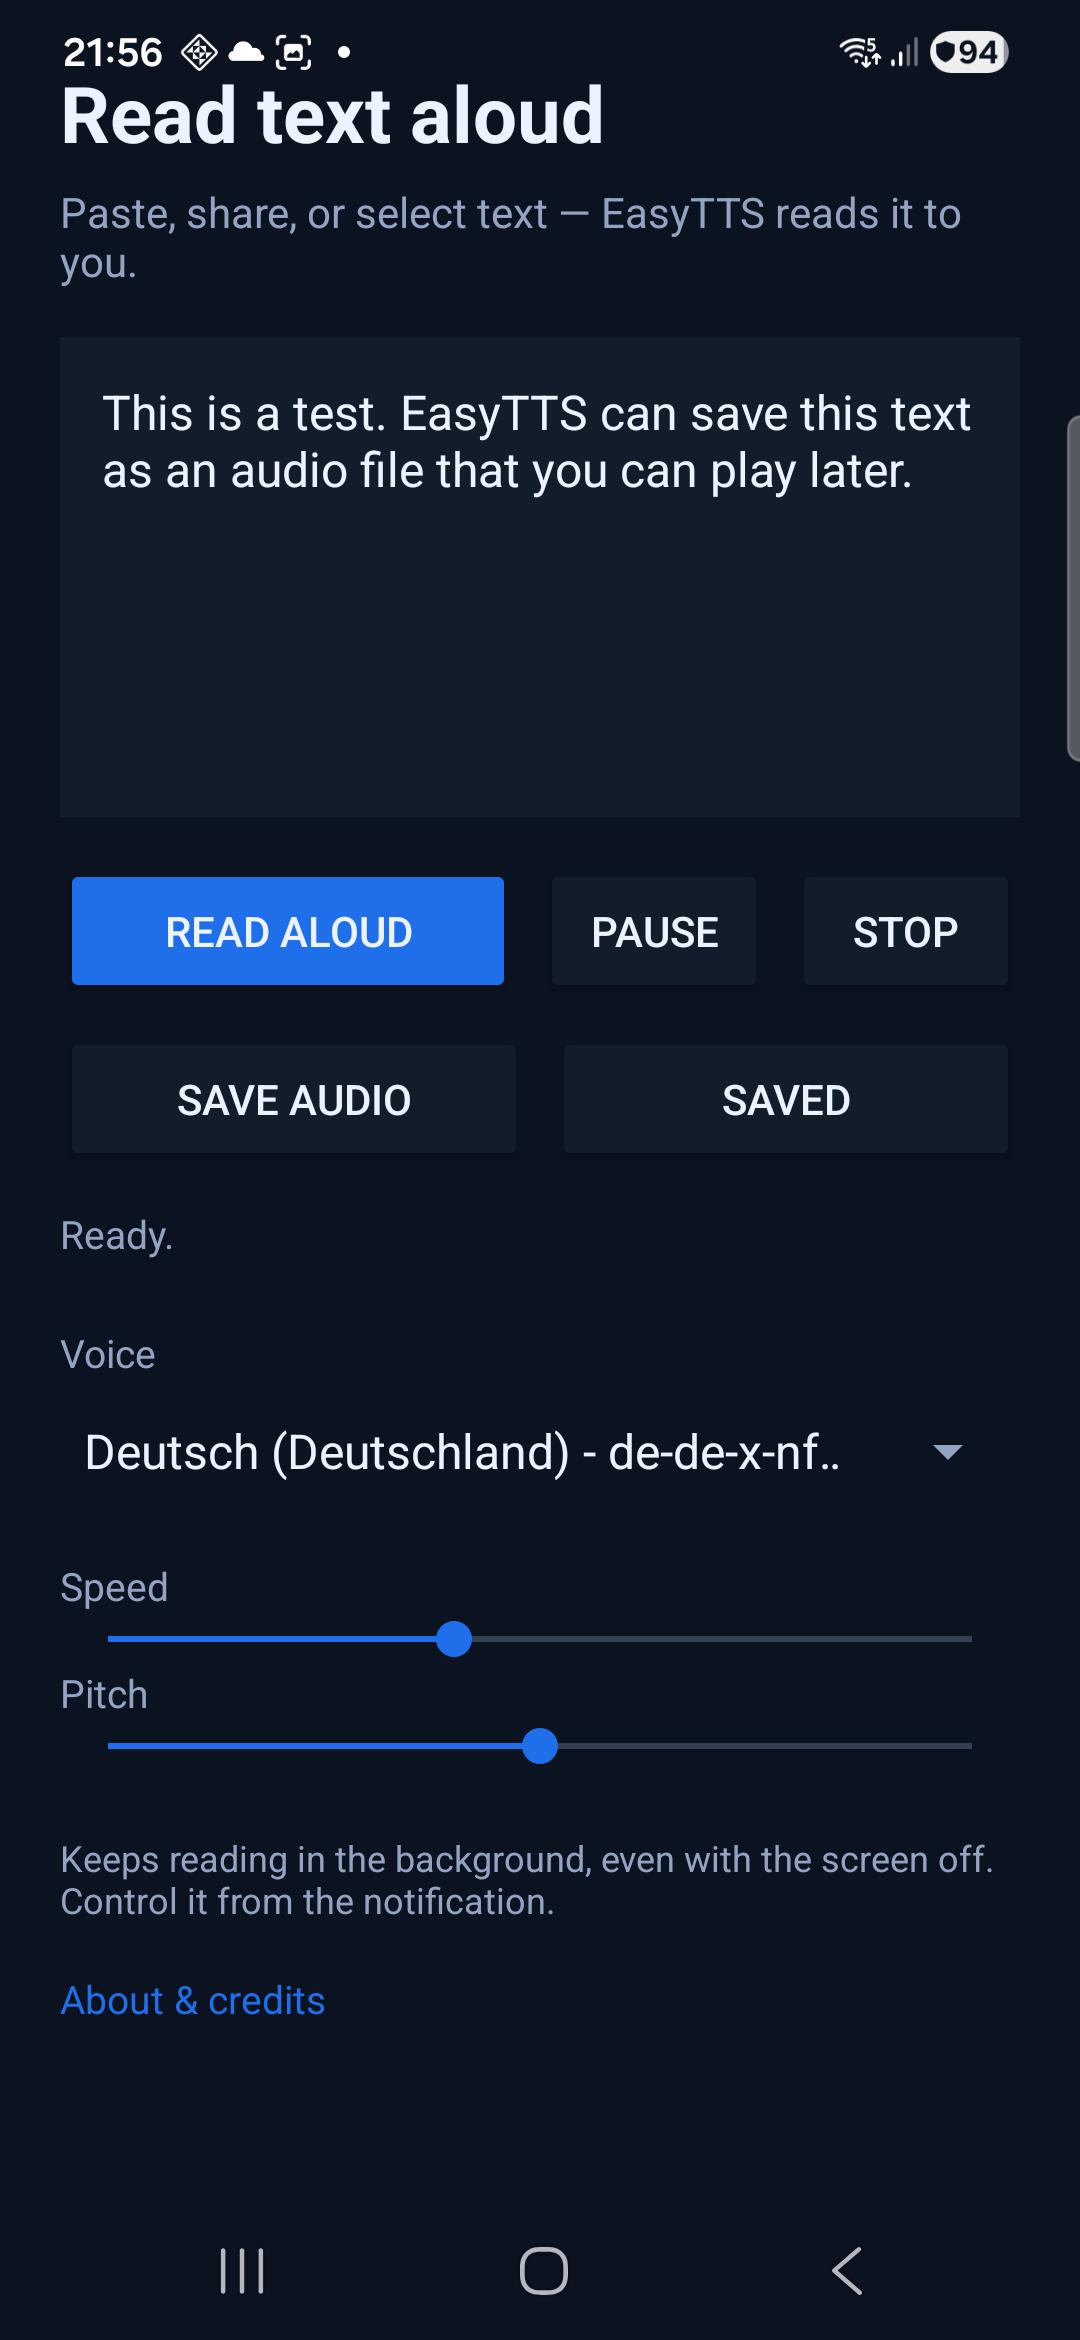
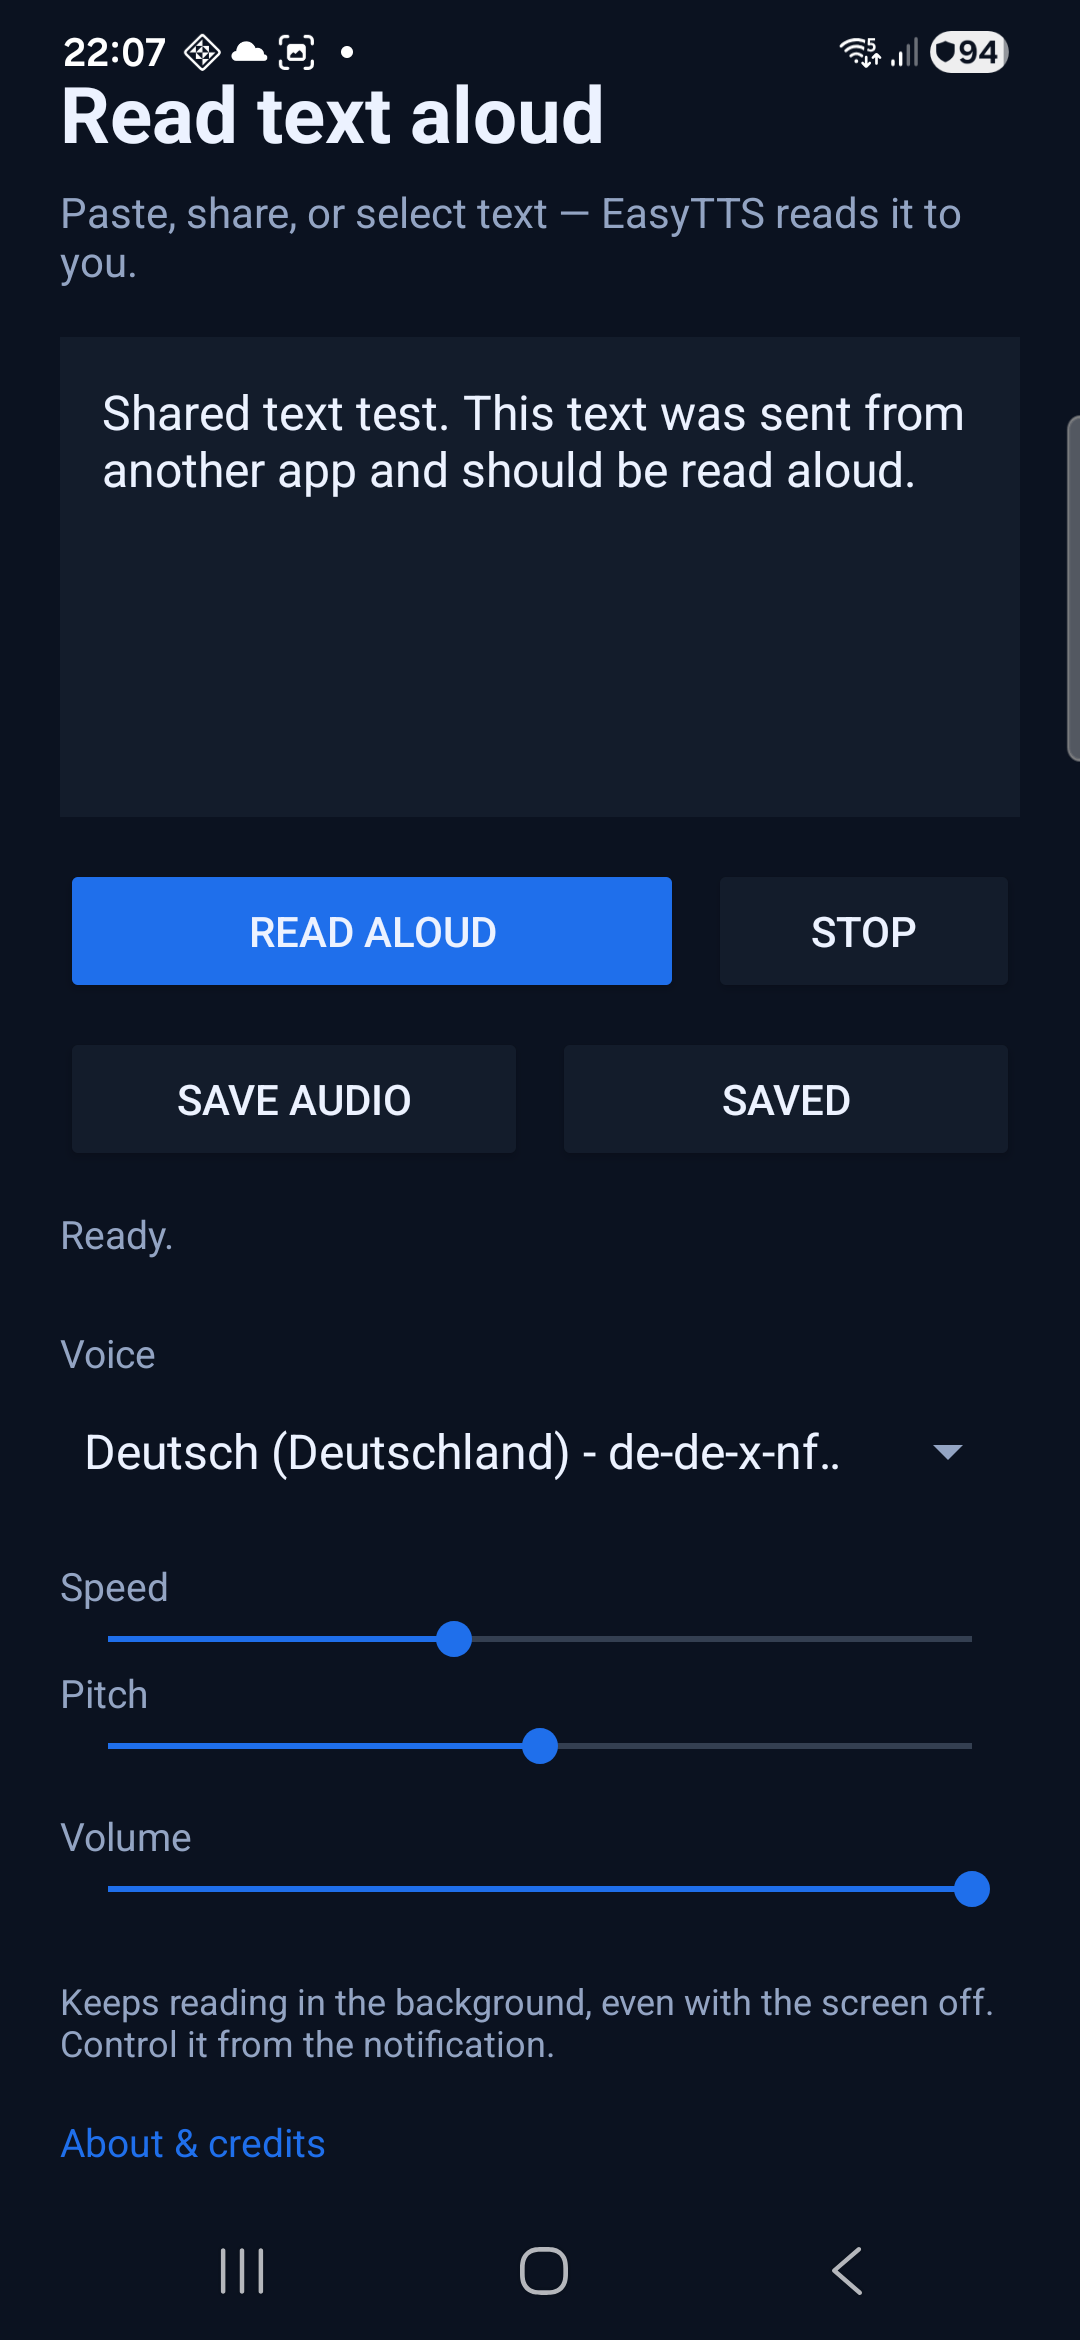
feat: read button toggles pause/resume, add volume slider (0.5.0)
- Read aloud becomes Pause/Resume while a session is active
- service decides between start and toggle (no stale UI state)
- new volume slider, stored and applied per utterance
- normal launches start with an empty text field; shared text still fills it
- draft survives rotation via saved instance state
- version 0.5.0 (code 5)

diff --git a/android/app/src/main/java/de/voicetool/reader/MainActivity.java b/android/app/src/main/java/de/voicetool/reader/MainActivity.java
@@ -37,9 +37,10 @@ public class MainActivity extends Activity {
     private EditText input;
     private SeekBar rateBar;
     private SeekBar pitchBar;
+    private SeekBar volumeBar;
     private Spinner voiceSpinner;
     private TextView status;
-    private Button pauseButton;
+    private Button readButton;
     private Button saveButton;
     private String pendingSaveText;
 
@@ -64,13 +65,18 @@ public class MainActivity extends Activity {
         input = findViewById(R.id.input);
         rateBar = findViewById(R.id.rate);
         pitchBar = findViewById(R.id.pitch);
+        volumeBar = findViewById(R.id.volume);
         voiceSpinner = findViewById(R.id.voice);
         status = findViewById(R.id.status);
-        pauseButton = findViewById(R.id.pause);
+        readButton = findViewById(R.id.speak);
 
-        input.setText(prefs.getString("lastText", ""));
+        // Keep text across rotation, but start empty on a normal launch.
+        if (savedInstanceState != null) {
+            input.setText(savedInstanceState.getString("draft", ""));
+        }
         rateBar.setProgress(prefs.getInt("rate", 100));
         pitchBar.setProgress(prefs.getInt("pitch", 100));
+        volumeBar.setProgress(prefs.getInt("volume", 100));
         String savedVoice = prefs.getString("voice", "");
 
         rateBar.setOnSeekBarChangeListener(new SimpleSeekListener() {
@@ -87,6 +93,15 @@ public class MainActivity extends Activity {
             public void onProgressChanged(SeekBar bar, int value, boolean fromUser) {
                 if (fromUser) {
                     prefs.edit().putInt("pitch", value).apply();
+                    sendConfig();
+                }
+            }
+        });
+        volumeBar.setOnSeekBarChangeListener(new SimpleSeekListener() {
+            @Override
+            public void onProgressChanged(SeekBar bar, int value, boolean fromUser) {
+                if (fromUser) {
+                    prefs.edit().putInt("volume", value).apply();
                     sendConfig();
                 }
             }
@@ -117,11 +132,9 @@ public class MainActivity extends Activity {
             }
         });
 
-        Button speakButton = findViewById(R.id.speak);
         Button stopButton = findViewById(R.id.stop);
         saveButton = findViewById(R.id.save);
-        speakButton.setOnClickListener(v -> speakInput());
-        pauseButton.setOnClickListener(v -> sendAction(ReaderService.ACTION_TOGGLE));
+        readButton.setOnClickListener(v -> onReadClicked());
         stopButton.setOnClickListener(v -> {
             sendAction(ReaderService.ACTION_STOP);
             setStatus(getString(R.string.status_stopped));
@@ -137,7 +150,9 @@ public class MainActivity extends Activity {
             prefs.edit().putString("voice", savedVoice).apply();
         }
         askNotificationPermission();
-        handleIntent(getIntent());
+        if (savedInstanceState == null) {
+            handleIntent(getIntent());
+        }
     }
 
     // -- Control the service ---------------------------------------------
@@ -151,6 +166,27 @@ public class MainActivity extends Activity {
                 .setAction(ReaderService.ACTION_CONFIG)
                 .putExtra(ReaderService.EXTRA_RATE, rateBar.getProgress() / 100f)
                 .putExtra(ReaderService.EXTRA_PITCH, pitchBar.getProgress() / 100f)
+                .putExtra(ReaderService.EXTRA_VOLUME, volumeBar.getProgress() / 100f)
+                .putExtra(ReaderService.EXTRA_VOICE, prefs.getString("voice", ""));
+        startService(intent);
+    }
+
+    private void onReadClicked() {
+        String text = input.getText().toString().trim();
+        boolean active = ReaderService.STATE_SPEAKING.equals(currentState)
+                || ReaderService.STATE_PAUSED.equals(currentState);
+        if (text.isEmpty() && !active) {
+            Toast.makeText(this, R.string.hint_empty, Toast.LENGTH_SHORT).show();
+            return;
+        }
+        if (!text.isEmpty()) {
+            }
+        Intent intent = new Intent(this, ReaderService.class)
+                .setAction(ReaderService.ACTION_READ)
+                .putExtra(ReaderService.EXTRA_TEXT, text)
+                .putExtra(ReaderService.EXTRA_RATE, rateBar.getProgress() / 100f)
+                .putExtra(ReaderService.EXTRA_PITCH, pitchBar.getProgress() / 100f)
+                .putExtra(ReaderService.EXTRA_VOLUME, volumeBar.getProgress() / 100f)
                 .putExtra(ReaderService.EXTRA_VOICE, prefs.getString("voice", ""));
         startService(intent);
     }
@@ -161,7 +197,6 @@ public class MainActivity extends Activity {
             Toast.makeText(this, R.string.hint_empty, Toast.LENGTH_SHORT).show();
             return;
         }
-        prefs.edit().putString("lastText", text).apply();
         speak(text);
     }
 
@@ -171,6 +206,7 @@ public class MainActivity extends Activity {
                 .putExtra(ReaderService.EXTRA_TEXT, text)
                 .putExtra(ReaderService.EXTRA_RATE, rateBar.getProgress() / 100f)
                 .putExtra(ReaderService.EXTRA_PITCH, pitchBar.getProgress() / 100f)
+                .putExtra(ReaderService.EXTRA_VOLUME, volumeBar.getProgress() / 100f)
                 .putExtra(ReaderService.EXTRA_VOICE, prefs.getString("voice", ""));
         startService(intent);
     }
@@ -325,12 +361,12 @@ public class MainActivity extends Activity {
 
     private void showState() {
         if (ReaderService.STATE_ERROR.equals(currentState)) {
-            pauseButton.setText(R.string.pause);
+            readButton.setText(R.string.speak);
             setStatus(getString(R.string.status_error));
             return;
         }
         if (ReaderService.STATE_SPEAKING.equals(currentState)) {
-            pauseButton.setText(R.string.pause);
+            readButton.setText(R.string.pause);
             if (currentTotal > 0) {
                 setStatus(getString(R.string.status_progress_speaking,
                         Math.min(currentIndex + 1, currentTotal), currentTotal));
@@ -340,7 +376,7 @@ public class MainActivity extends Activity {
             return;
         }
         if (ReaderService.STATE_PAUSED.equals(currentState)) {
-            pauseButton.setText(R.string.resume);
+            readButton.setText(R.string.resume);
             if (currentTotal > 0) {
                 setStatus(getString(R.string.status_progress_paused,
                         Math.min(currentIndex + 1, currentTotal), currentTotal));
@@ -349,7 +385,7 @@ public class MainActivity extends Activity {
             }
             return;
         }
-        pauseButton.setText(R.string.pause);
+        readButton.setText(R.string.speak);
         if (ReaderService.STATE_DONE.equals(currentState)) {
             setStatus(getString(R.string.status_done));
         } else if (ReaderService.STATE_IDLE.equals(currentState)) {
@@ -369,8 +405,13 @@ public class MainActivity extends Activity {
         if (intent == null) {
             return;
         }
-        CharSequence shared = null;
         String action = intent.getAction();
+        if (Intent.ACTION_MAIN.equals(action)) {
+            // Opened from the launcher: start with an empty field.
+            input.setText("");
+            return;
+        }
+        CharSequence shared = null;
         if (Intent.ACTION_SEND.equals(action)) {
             shared = intent.getCharSequenceExtra(Intent.EXTRA_TEXT);
         } else if (Intent.ACTION_PROCESS_TEXT.equals(action)) {
@@ -381,6 +422,12 @@ public class MainActivity extends Activity {
             input.setText(text);
             speak(text);
         }
+    }
+
+    @Override
+    protected void onSaveInstanceState(Bundle outState) {
+        super.onSaveInstanceState(outState);
+        outState.putString("draft", input.getText().toString());
     }
 
     // -- Lifecycle --------------------------------------------------------
@@ -398,12 +445,6 @@ public class MainActivity extends Activity {
             receiverRegistered = false;
         }
         super.onStop();
-    }
-
-    @Override
-    protected void onPause() {
-        super.onPause();
-        prefs.edit().putString("lastText", input.getText().toString()).apply();
     }
 
     @Override

diff --git a/android/app/src/main/java/de/voicetool/reader/ReaderService.java b/android/app/src/main/java/de/voicetool/reader/ReaderService.java
@@ -33,6 +33,7 @@ import java.util.Locale;
 public class ReaderService extends Service implements TextToSpeech.OnInitListener {
 
     public static final String ACTION_SPEAK = "de.voicetool.reader.SPEAK";
+    public static final String ACTION_READ = "de.voicetool.reader.READ";
     public static final String ACTION_TOGGLE = "de.voicetool.reader.TOGGLE";
     public static final String ACTION_STOP = "de.voicetool.reader.STOP";
     public static final String ACTION_CONFIG = "de.voicetool.reader.CONFIG";
@@ -41,6 +42,7 @@ public class ReaderService extends Service implements TextToSpeech.OnInitListene
     public static final String EXTRA_TEXT = "text";
     public static final String EXTRA_RATE = "rate";
     public static final String EXTRA_PITCH = "pitch";
+    public static final String EXTRA_VOLUME = "volume";
     public static final String EXTRA_VOICE = "voice";
     public static final String EXTRA_STATE = "state";
     public static final String EXTRA_INDEX = "index";
@@ -72,6 +74,7 @@ public class ReaderService extends Service implements TextToSpeech.OnInitListene
 
     private float rate = 1f;
     private float pitch = 1f;
+    private float volume = 1f;
     private String voiceName = "";
 
     private AudioManager audioManager;
@@ -95,6 +98,17 @@ public class ReaderService extends Service implements TextToSpeech.OnInitListene
                 String text = intent.getStringExtra(EXTRA_TEXT);
                 if (!TextUtils.isEmpty(text)) {
                     speak(text);
+                }
+            } else if (ACTION_READ.equals(action)) {
+                // The service decides: pause/resume when active, otherwise start.
+                applyConfig(intent);
+                if (paused || (tts != null && tts.isSpeaking())) {
+                    toggle();
+                } else {
+                    String text = intent.getStringExtra(EXTRA_TEXT);
+                    if (!TextUtils.isEmpty(text)) {
+                        speak(text);
+                    }
                 }
             } else if (ACTION_TOGGLE.equals(action)) {
                 toggle();
@@ -189,6 +203,9 @@ public class ReaderService extends Service implements TextToSpeech.OnInitListene
         if (intent.hasExtra(EXTRA_PITCH)) {
             pitch = intent.getFloatExtra(EXTRA_PITCH, 1f);
         }
+        if (intent.hasExtra(EXTRA_VOLUME)) {
+            volume = Math.max(0f, Math.min(1f, intent.getFloatExtra(EXTRA_VOLUME, 1f)));
+        }
         if (intent.hasExtra(EXTRA_VOICE)) {
             String name = intent.getStringExtra(EXTRA_VOICE);
             voiceName = name == null ? "" : name;
@@ -271,7 +288,7 @@ public class ReaderService extends Service implements TextToSpeech.OnInitListene
         }
         currentUtterance = "vt-" + index + "-" + System.currentTimeMillis();
         Bundle params = new Bundle();
-        params.putFloat(TextToSpeech.Engine.KEY_PARAM_VOLUME, 1f);
+        params.putFloat(TextToSpeech.Engine.KEY_PARAM_VOLUME, volume);
         tts.speak(chunks.get(index), TextToSpeech.QUEUE_FLUSH, params, currentUtterance);
         state = STATE_SPEAKING;
         broadcastState();

diff --git a/README.md b/README.md
@@ -18,7 +18,9 @@ read aloud — offline, without an account, without ads.
   stops on incoming calls.
 - **Voice selection**: automatically picks the best voice for your device
   language; you can change it at any time.
-- **Speed and pitch** sliders, remembered across launches.
+- **Speed, pitch, and volume** sliders, remembered across launches.
+- **One-button playback**: *Read aloud* turns into *Pause*/*Resume* while
+  reading; the notification offers the same controls.
 - **Save audio**: export the current text to `Music/EasyTTS` as M4A (AAC),
   with a WAV fallback if encoding is unavailable.
 - **Saved screen**: play, share, or delete exported files.
@@ -48,7 +50,7 @@ ship updates with the same signature.
 Copy the APK to your phone and open it, or use ADB:
 
 ```powershell
-adb install -r dist\EasyTTS-0.4.0.apk
+adb install -r dist\EasyTTS-0.5.0.apk
 ```
 
 Wireless debugging (Android 11+):
@@ -56,13 +58,14 @@ Wireless debugging (Android 11+):
 ```powershell
 adb pair <ip>:<pair-port>
 adb connect <ip>:<port>
-adb install -r dist\EasyTTS-0.4.0.apk
+adb install -r dist\EasyTTS-0.5.0.apk
 ```
 
 ## Usage
 
 1. Open EasyTTS and paste text, or share text from another app.
-2. Press **Read aloud**. Playback starts immediately.
+2. Press **Read aloud**. While reading, the same button turns into
+   **Pause**, then **Resume**.
 3. Leave the app or lock the screen — reading continues.
 4. Use the notification (or the in-app buttons) to pause, resume, or stop.
 5. Press **Save audio** to export the text to `Music/EasyTTS`. The **Saved**
